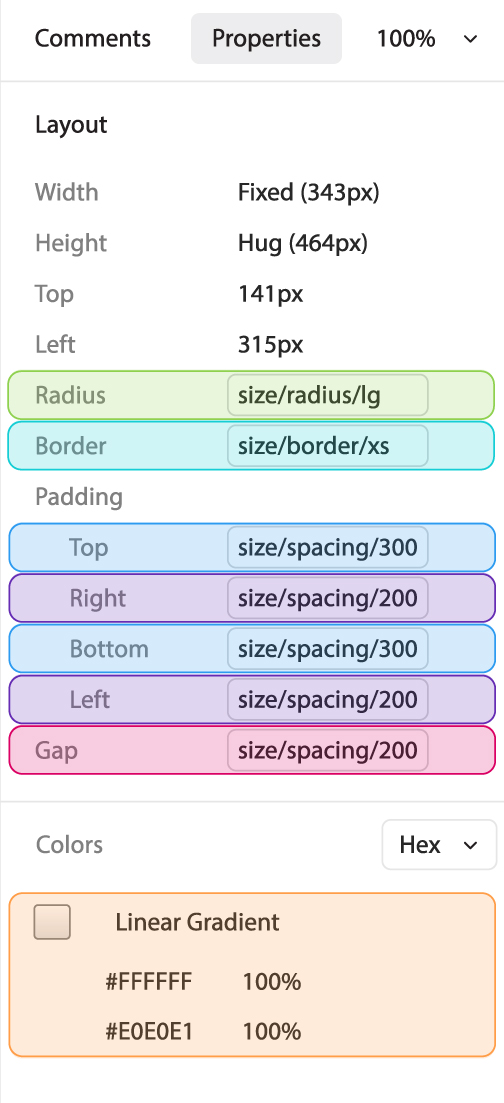
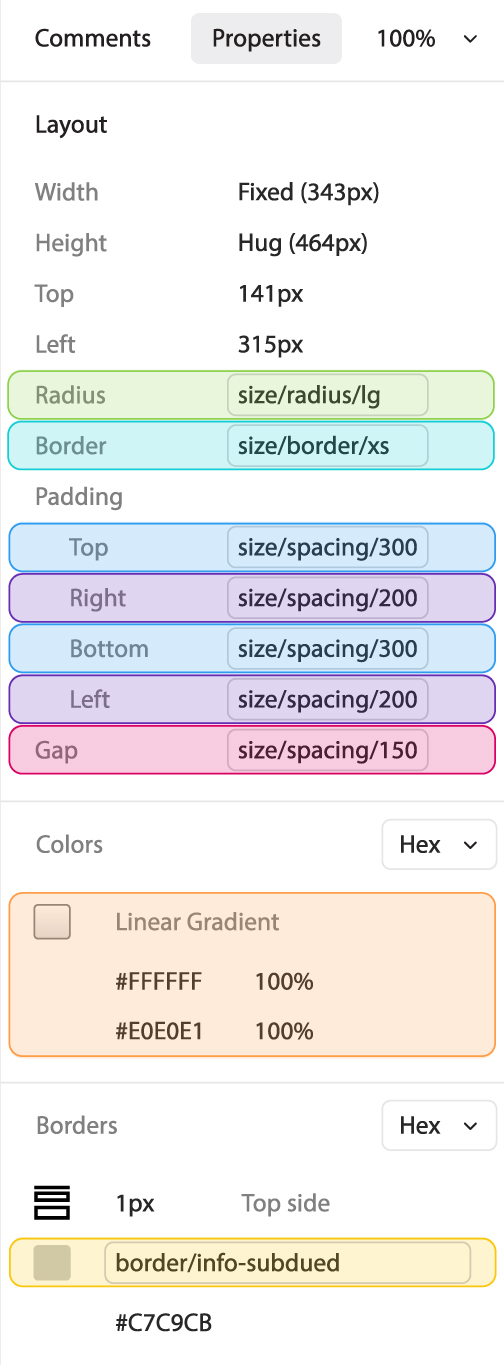
chore(web-dev): updated LinearGradient Figma panel image and and colorize class list to match panel

diff --git a/portfolio-pages/web-design/web-design-portfolio-figma-to-code.html b/portfolio-pages/web-design/web-design-portfolio-figma-to-code.html
@@ -435,10 +435,11 @@
               <h2 class="mb-block-none">1. LinearGradient</h2>
               <p class="mt-block-50">lorem ipsum...</p>
 
-              <!-- ************************************ -->
-              <!-- ***** Figma design with markup ***** -->
-              <!-- ************************************ -->
               <div class="flex flex-col lg-flex-row gap-300">
+
+                <!-- ************************************ -->
+                <!-- ***** Figma design with markup ***** -->
+                <!-- ************************************ -->
                 <div class="lg-w-8/12">
                 <div
                   class="flex flex-col align-center gap-150 pb-150 border-magenta border-sm rounded-lg overflow-hidden border-box">
@@ -569,68 +570,68 @@
                     <div class="px-200">
                       <p class="fg-info m-block-none">flex</p>
                       <p class="fg-info m-block-none">flex-col</p>
-                      <p class="fg-info m-block-none">border-xs</p>
+                      <h4 class="fg-green m-block-none">rounded-lg</h4>
+                      <h4 class="fg-aqua m-block-none">border-xs</h4>
                       <!-- <p class="fg-info m-block-none">border-solid</p> -->
-                      <p class="fg-info m-block-none">border-info-subdued</p>
-                      <p class="fg-info m-block-none">rounded-lg</p>
-                      <p class="fg-info m-block-none">gap-150</p>
-                      <p class="fg-info m-block-none">py-200</p>
-                      <p class="fg-info m-block-none">px-150</p>
-                      <p class="fg-info m-block-none">md-px-200</p>
-                      <p class="fg-info m-block-none">max-w-5600</p>
+                      <h4 class="fg-indigo m-block-none">py-300</h4>
+                      <h4 class="fg-purple m-block-none">px-200</h4>
+                      <h4 class="fg-magenta m-block-none">gap-150</h4>
+                      <h4 class="fg-yellow m-block-none">border-info-subdued</h4>
                       <p class="fg-info m-block-none">border-box</p>
                       <p class="fg-info m-block-none">overflow-hidden</p>
                     </div>
                     <h4 class="px-100 m-block-none">&rsquo;</h4>
-                    <h4 class="px-100 mt-block-50 mb-block-none">angle: &lbrace; 180 &rbrace;</h4>
-                    <h4 class="px-100 mt-block-50 mb-block-none">variant: &lsquo;subdued-gradient&rsquo;</h4>
+                    <h4 class="fg-amber px-100 mt-block-50 mb-block-none">angle: &lbrace; 180 &rbrace;</h4>
+                    <h4 class="fg-amber px-100 mt-block-50 mb-block-none">variant: &lsquo;subdued-gradient&rsquo;</h4>
 
                 </div>
+
               </div>
 
-              <!-- ******************* -->
-              <!-- *** code parent *** -->
-              <!-- ******************* -->
+              <!-- ****************** -->
+              <!-- *** code block *** -->
+              <!-- ****************** -->
               <div class="py-400">
-                  <!-- ****************** -->
-                  <!-- *** code block *** -->
-                  <!-- ****************** -->
-                  <div class="p-150 rounded-lg border-sm border-code-black bg-code-black">
+                <div class="p-150 rounded-lg border-sm border-code-black bg-code-black">
+                  <h4 class="m-block-none">
+                    <span class="fg-code-red">&lt;</span><span class="fg-code-orange">LinearGradient</span>
+                  </h4>
+                  <div class="pl-150">
                     <h4 class="m-block-none">
-                      <span class="fg-code-red">&lt;</span><span class="fg-code-orange">LinearGradient</span>
+                      <span class="fg-code-lemon">angle</span>
+                      <span class="fg-code-green">&nbsp;&equals;&nbsp;</span>
+                      <span class="fg-code-yellow">&lbrace;&nbsp;</span>
+                      <span class="fg-code-aqua">180</span>
+                      <span class="fg-code-yellow">&nbsp;&rbrace;</span>
+                      </span>
+                      <br />
+                      <span class="fg-code-lemon">className</span>
+                      <span class="fg-code-green">&nbsp;&equals;&nbsp;</span>
+                      <span class="fg-code-periwinkle">&lsquo;</span>
+                      <span class="fg-code-ice">flex flex&#8209;col rounded&#8209;lg border&#8209;xs py&#8209;300 px&#8209;200 gap&#8209;150 border&#8209;info&#8209;subdued border&#8209;box overflow&#8209;hidden</span>
+                      <br />
+                      <span class="fg-code-periwinkle">&rsquo;</span>
+                      <br />
+                      <span class="fg-code-lemon">variant</span>
+                      <span class="fg-code-green">&nbsp;&equals;&nbsp;</span>
+                      <span class="fg-code-periwinkle">&lsquo;</span>
+                      <span class="fg-code-ice">subdued-gradient</span>
+                      <span class="fg-code-periwinkle">&rsquo;</span>
                     </h4>
-                    <div class="pl-150">
-                      <h4 class="m-block-none">
-                        <span class="fg-code-lemon">angle</span>
-                        <span class="fg-code-green">&nbsp;&equals;&nbsp;</span>
-                        <span class="fg-code-yellow">&lbrace;&nbsp;</span>
-                        <span class="fg-code-aqua">180</span>
-                        <span class="fg-code-yellow">&nbsp;&rbrace;</span>
-                        </span>
-                        <br />
-                        <span class="fg-code-lemon">className</span>
-                        <span class="fg-code-green">&nbsp;&equals;&nbsp;</span>
-                        <span class="fg-code-periwinkle">&lsquo;</span>
-                        <span class="fg-code-ice">flex flex&#8209;col border&#8209;xs border&#8209;solid
-                          border&#8209;info&#8209;subdued rounded&#8209;lg gap&#8209;150 py&#8209;200 px&#8209;150
-                          md&#8209;px&#8209;200 max&#8209;w&#8209;5600 border&#8209;box overflow&#8209;hidden</span><span
-                          class="fg-code-periwinkle">&rsquo;</span>
-                        <br />
-                        <span class="fg-code-lemon">variant</span>
-                        <span class="fg-code-green">&nbsp;&equals;&nbsp;</span>
-                        <span class="fg-code-periwinkle">&lsquo;</span>
-                        <span class="fg-code-ice">subdued-gradient</span>
-                        <span class="fg-code-periwinkle">&rsquo;</span>
-                      </h4>
-                    </div>
-                    <h4 class="fg-code-red m-block-none">&#8725;&gt;</h4>
-
                   </div>
+                  <h4 class="fg-code-red m-block-none">&#8725;&gt;</h4>
+                </div>
               </div>
             </div>
+
+
+            <!-- ******************* -->
+            <!-- *** Figma Panel *** -->
+            <!-- ******************* -->
             <div class="lg-w-4/12 mt-300">
               <img alt="top banner place holder img" src="img/figma-panel-02-LinearGradient.jpg">
             </div>
+            
           </div>
 
           <!-- ***************************************** -->
